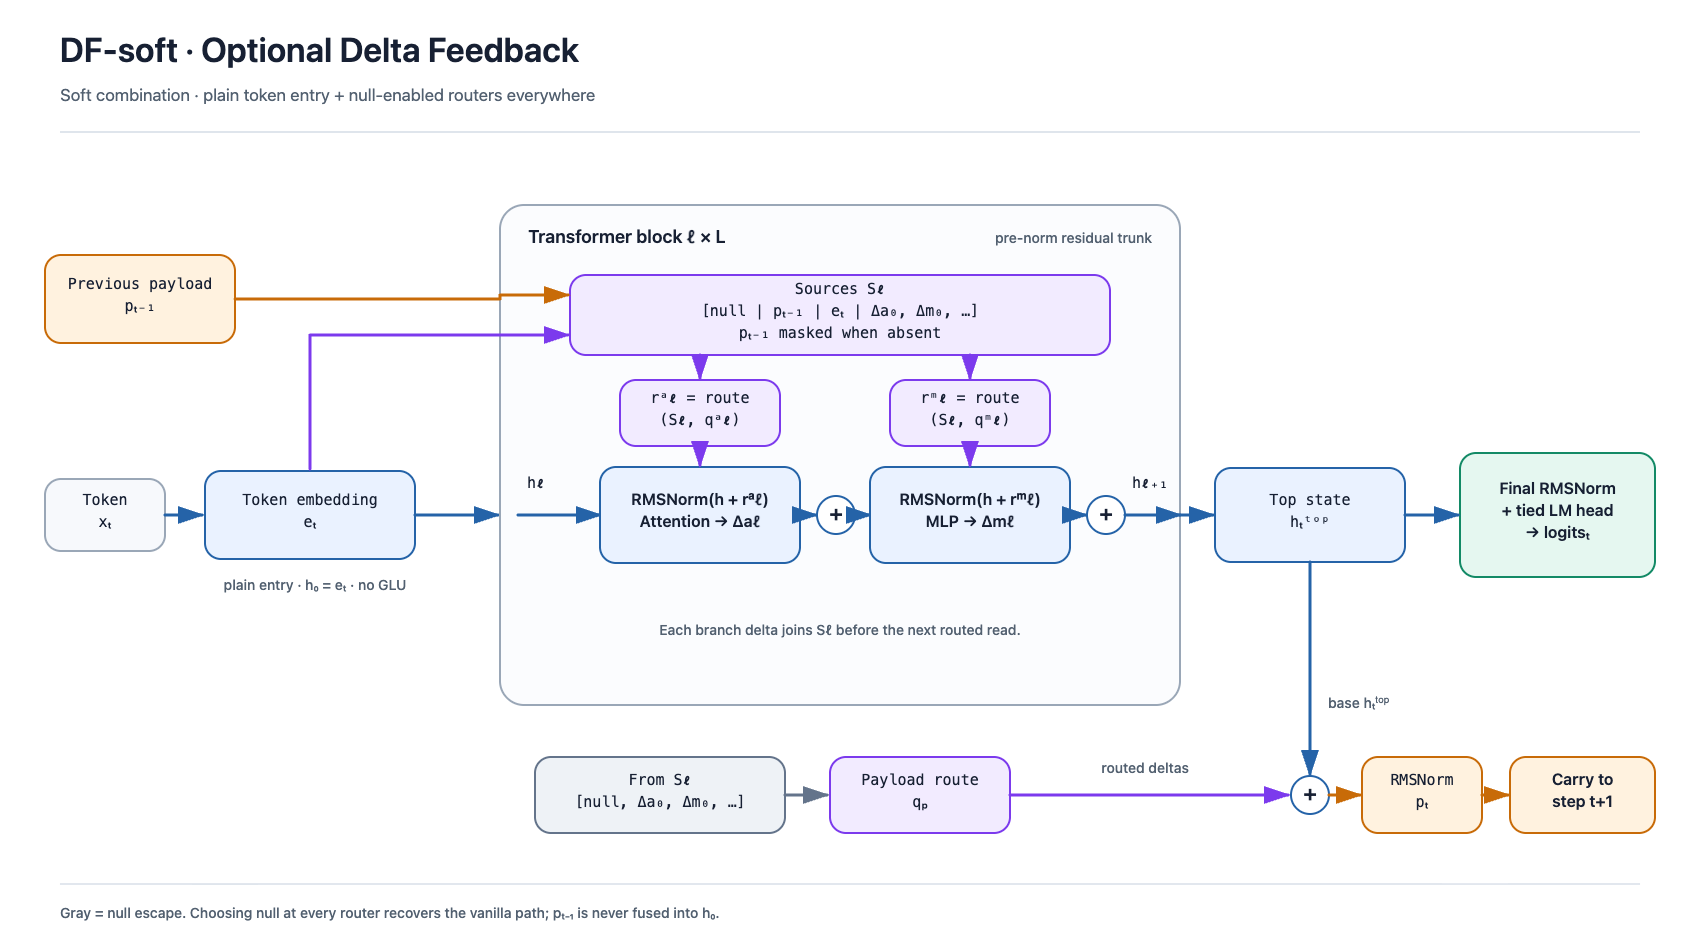
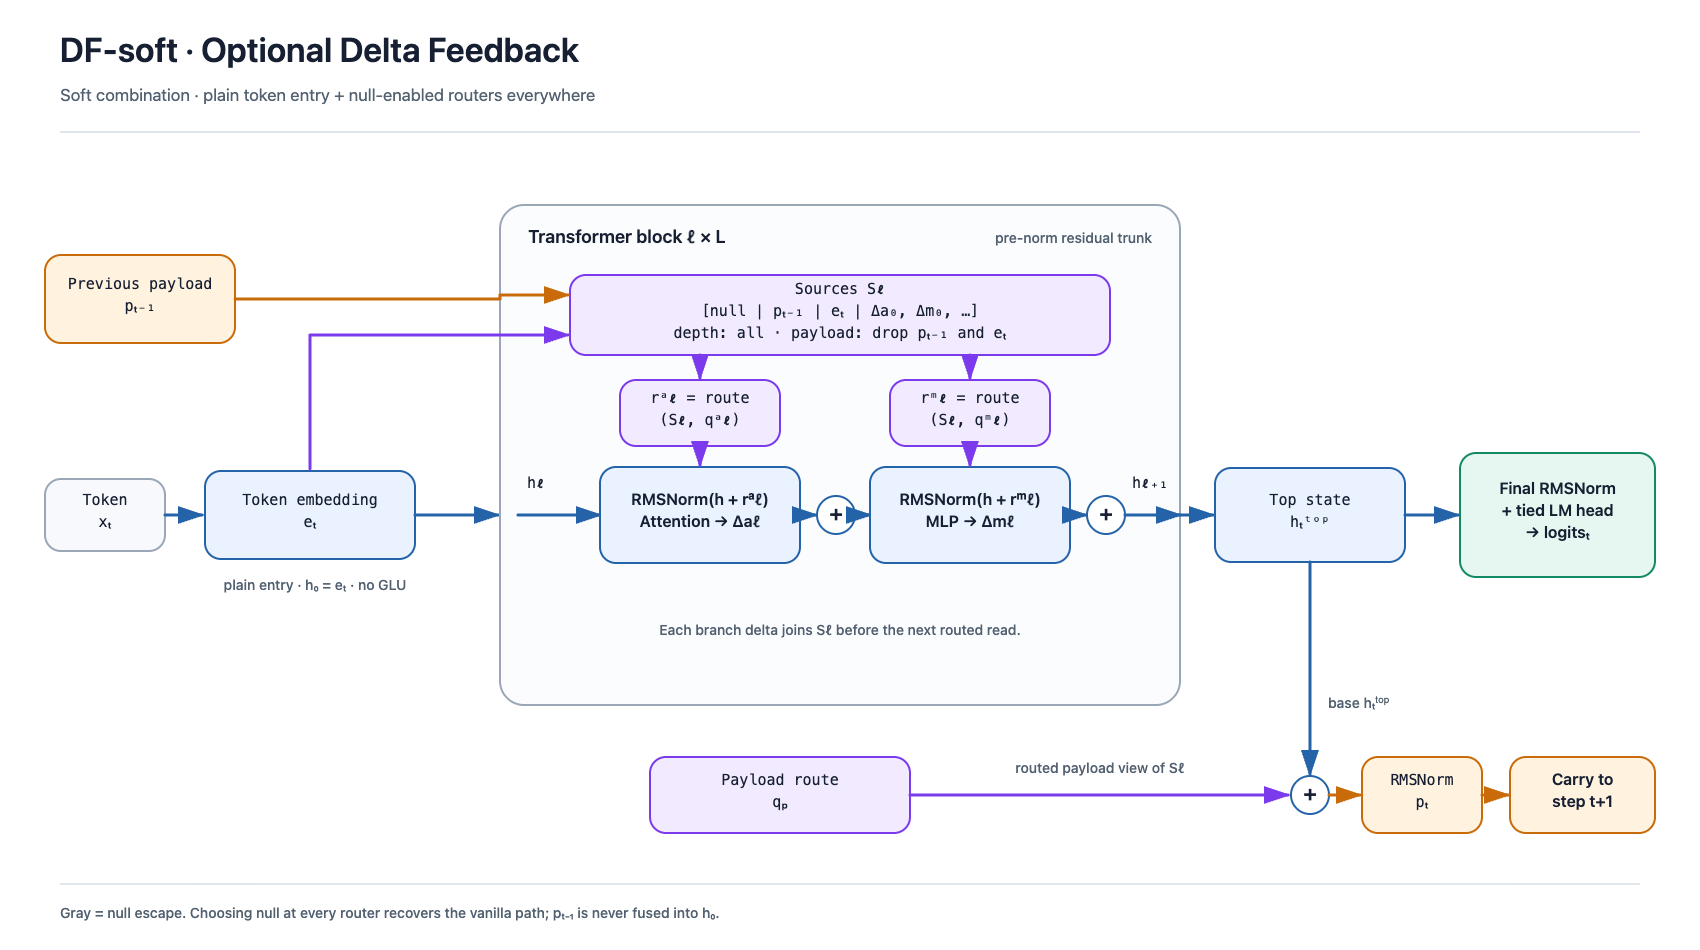
Unify depth and payload source views

Changed region(s): [[0.3429, 0.7937, 0.7171, 0.8853], [0.4053, 0.3358, 0.5924, 0.3663], [0.3118, 0.7937, 0.3429, 0.8242]]

diff --git a/figures/architectures/render.py b/figures/architectures/render.py
@@ -361,29 +361,20 @@ def simple_payload(svg: list[str]) -> None:
     svg.append(box(1460, 757, 195, 76, ["Carry to", "step t+1"], kind="orange-node"))
 
 
-def routed_payload(svg: list[str], *, soft: bool) -> None:
-    source = (
-        ["From Sℓ", "[null, Δa₀, Δm₀, …]"]
-        if soft
-        else ["From Sℓ", "[Δa₀, Δm₀, …]"]
-    )
-    source_kind = "gray-node" if soft else "purple-node"
-    source_edge = "gray" if soft else "purple"
-    svg.append(box(535, 757, 250, 76, source, kind=source_kind, css="formula"))
-    svg.append(line(785, 795, 827, 795, kind=source_edge))
+def routed_payload(svg: list[str]) -> None:
     svg.append(
         box(
-            830,
+            650,
             757,
-            180,
+            260,
             76,
             ["Payload route", "qₚ"],
             kind="purple-node",
             css="formula",
         )
     )
-    svg.append(line(1010, 795, 1288, 795, kind="purple"))
-    svg.append(text(1145, 773, "routed deltas", css="small"))
+    svg.append(line(910, 795, 1288, 795, kind="purple"))
+    svg.append(text(1100, 773, "routed payload view of Sℓ", css="small"))
     svg.append(circle(1310, 795))
     svg.append(path([(1310, 562), (1310, 774)], kind="blue"))
     svg.append(text(1328, 708, "base hₜᵗᵒᵖ", css="small", anchor="start"))
@@ -463,12 +454,16 @@ def df() -> str:
     stack(
         svg,
         routed=True,
-        source_label=["Sources Sℓ", "[uₜ  |  Δa₀, Δm₀, …]", "fused seed + prior deltas"],
+        source_label=[
+            "Sources Sℓ",
+            "[uₜ  |  Δa₀, Δm₀, …]",
+            "depth: all  ·  payload: drop uₜ",
+        ],
     )
     svg.append(path([(480, 515), (480, 315), (568, 315)], kind="purple"))
     svg.append(text(520, 294, "seed uₜ", css="small"))
     common_head(svg)
-    routed_payload(svg, soft=False)
+    routed_payload(svg)
     return finish_svg(svg, "Hard-everywhere: neither the routed reads nor the recurrent payload has a null escape.")
 
 
@@ -487,14 +482,14 @@ def df_soft() -> str:
         source_label=[
             "Sources Sℓ",
             "[null  |  pₜ₋₁  |  eₜ  |  Δa₀, Δm₀, …]",
-            "pₜ₋₁ masked when absent",
+            "depth: all  ·  payload: drop pₜ₋₁ and eₜ",
         ],
     )
     svg.append(path([(235, 299), (500, 299), (500, 295), (568, 295)], kind="orange"))
     svg.append(path([(310, 469), (310, 335), (568, 335)], kind="purple"))
     svg.append(text(315, 590, "plain entry  ·  h₀ = eₜ  ·  no GLU", css="small"))
     common_head(svg)
-    routed_payload(svg, soft=True)
+    routed_payload(svg)
     return finish_svg(svg, "Gray = null escape. Choosing null at every router recovers the vanilla path; pₜ₋₁ is never fused into h₀.")
 
 
